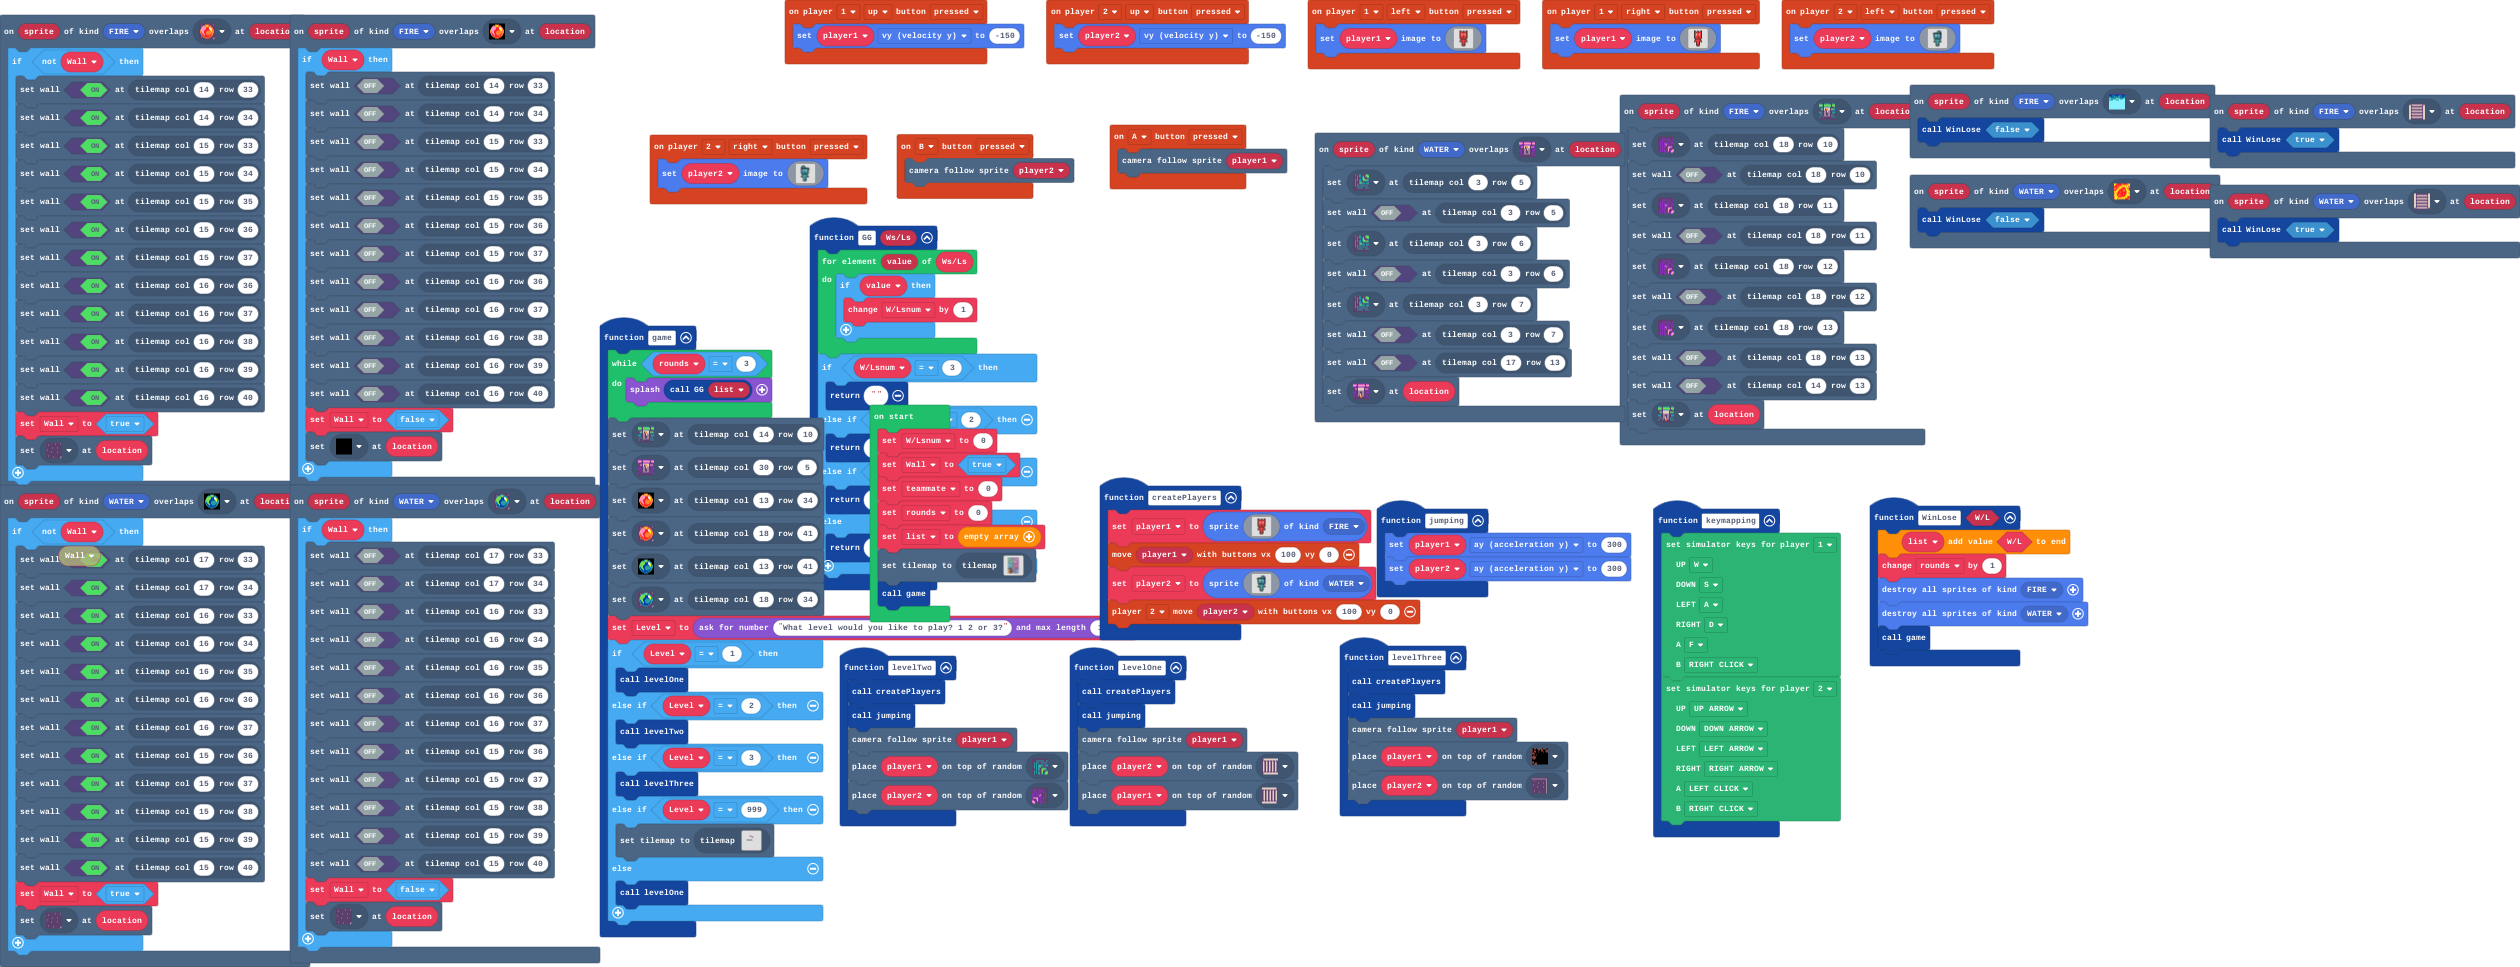
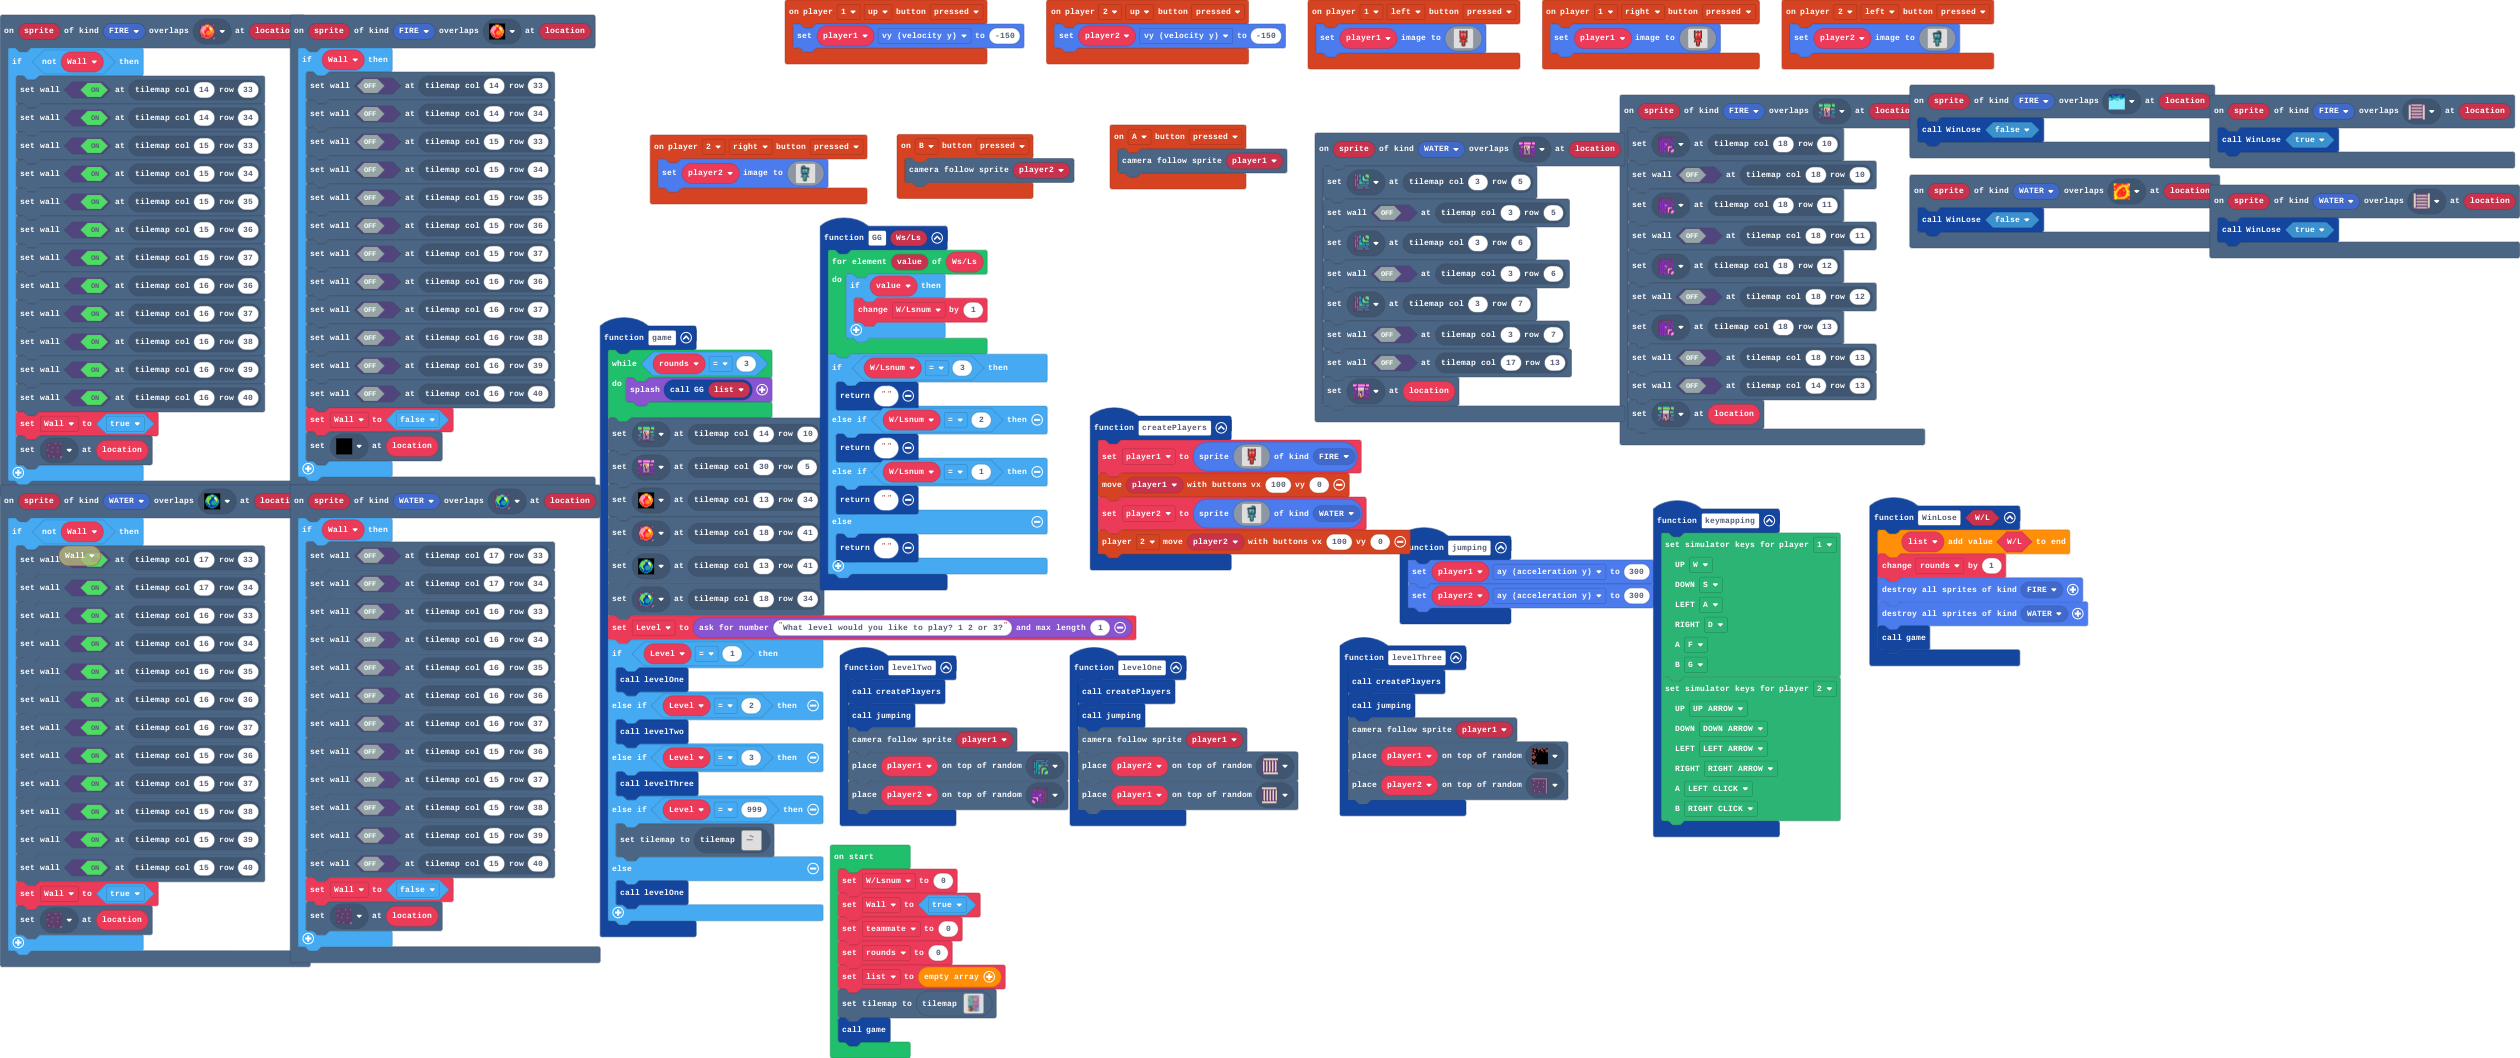
changed right click to g

diff --git a/tilemap.g.ts b/tilemap.g.ts
@@ -408,6 +408,25 @@ namespace myTiles {
 . . . . . . . . . . . . . . . . 
 . . . . . . . . . . . . . . . . 
 `, [myTiles.transparency16], TileScale.Sixteen);
+            case "level20":
+            case "level20":return tiles.createTilemap(hex`1000100000000000000000000000000000000000000000000000000000000000000000000000000000000000000000000000000000000000000000000000000000000000000000000000000000000000000000000000000000000000000000000000000000000000000000000000000000000000000000000000000000000000000000000000000000000000000000000000000000000000000000000000000000000000000000000000000000000000000000000000000000000000000000000000000000000000000000000000000000000000000000000000000000000000000000000000000000000000000000000000000000000000000000000000000000000000`, img`
+. . . . . . . . . . . . . . . . 
+. . . . . . . . . . . . . . . . 
+. . . . . . . . . . . . . . . . 
+. . . . . . . . . . . . . . . . 
+. . . . . . . . . . . . . . . . 
+. . . . . . . . . . . . . . . . 
+. . . . . . . . . . . . . . . . 
+. . . . . . . . . . . . . . . . 
+. . . . . . . . . . . . . . . . 
+. . . . . . . . . . . . . . . . 
+. . . . . . . . . . . . . . . . 
+. . . . . . . . . . . . . . . . 
+. . . . . . . . . . . . . . . . 
+. . . . . . . . . . . . . . . . 
+. . . . . . . . . . . . . . . . 
+. . . . . . . . . . . . . . . . 
+`, [myTiles.transparency16], TileScale.Sixteen);
         }
         return null;
     })

diff --git a/main.ts b/main.ts
@@ -104,7 +104,7 @@ function keymapping () {
     MakeyMakey.MakeyMakeyKey.A,
     MakeyMakey.MakeyMakeyKey.D,
     MakeyMakey.MakeyMakeyKey.F,
-    MakeyMakey.MakeyMakeyKey.RIGHT_CLICK
+    MakeyMakey.MakeyMakeyKey.G
     )
     MakeyMakey.setSimulatorKeymap(
     MakeyMakey.PlayerNumber.TWO,
